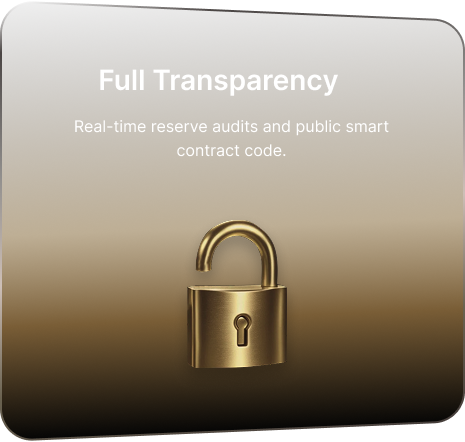
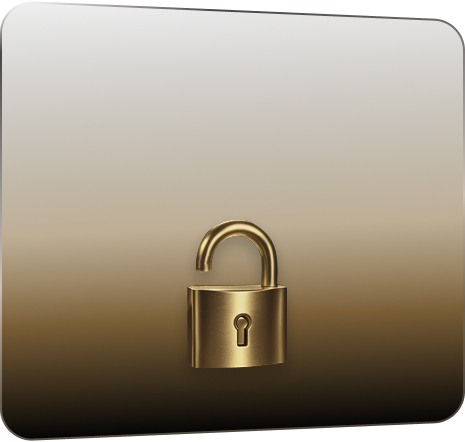
feat: style

Changed region(s): [[0.2108, 0.1471, 0.7226, 0.2353], [0.1505, 0.2647, 0.843, 0.2941], [0.3613, 0.3235, 0.6022, 0.3529]]

diff --git a/src/pages/home/works.tsx b/src/pages/home/works.tsx
@@ -167,18 +167,40 @@ export default function Works() {
         className="text-center text-base mt-[12px] leading-[25px] text-[#fff]"
       ></AnimatedContent>
       <div className=" mt-[80px] gap-[30px] flex items-end justify-center">
-        <img
-          src={work1}
-          className="block hover:scale-[1.05] transition-all w-[465px]"
-        />
-        <img
-          src={work2}
-          className="block hover:scale-[1.05] transition-all w-[500px]"
-        />
-        <img
-          src={work3}
-          className="block hover:scale-[1.05] transition-all w-[465px]"
-        />
+        <div className="w-[465px] hover:scale-[1.05] transition-all relative">
+          <img src={work1} className="block  w-full" />
+          <div className="absolute top-[62px] left-0 w-full h-full">
+            <div className="text-[28px] text-center text-white leading-[36px] font-bold">
+              Full Transparency
+            </div>
+            <div className="text-center text-[#fff] text-base leading-6 mt-4">
+              Real-time reserve audits and public smart <br /> contract code.
+            </div>
+          </div>
+        </div>
+        <div className="w-[500px] hover:scale-[1.05] transition-all relative">
+          <img src={work2} className="block  w-full" />
+          <div className="absolute top-[62px] left-0 w-full h-full">
+            <div className="text-[28px] text-center text-white leading-[36px] font-bold">
+              Community Governance
+            </div>
+            <div className="text-center text-[#fff] text-base leading-6 mt-4">
+              Token holders vote on protocol upgrades and <br /> parameter
+              adjustments.
+            </div>
+          </div>
+        </div>
+        <div className="w-[465px] hover:scale-[1.05] transition-all relative">
+          <img src={work3} className="block  w-full" />
+          <div className="absolute top-[62px] left-0 w-full h-full">
+            <div className="text-[28px] text-center text-white leading-[36px] font-bold">
+              Secure & Resilient
+            </div>
+            <div className="text-center text-[#fff] text-base leading-6 mt-4">
+              Multi-layer security architecture with <br /> regular audits.
+            </div>
+          </div>
+        </div>
       </div>
     </div>
   );

diff --git a/src/pages/history/index.tsx b/src/pages/history/index.tsx
@@ -192,7 +192,7 @@ export default function History() {
             </div>
 
             {/* Table Header */}
-            <div className="bg-[#22201A99] mb-[18px] px-[40px] h-[48px] leading-[48px] grid grid-cols-6 text-sm font-bold text-[#FFFFFF66]">
+            <div className="bg-[#22201A99] mb-[18px] px-[40px] h-[48px] leading-[48px] grid grid-cols-[1.5fr_1.5fr_1.5fr_1.5fr_1.5fr_1fr] text-sm font-bold text-[#FFFFFF66]">
               <div>Date</div>
               <div>Transaction Hash</div>
               <div>From</div>
@@ -206,7 +206,7 @@ export default function History() {
               {allTransactions.map((tx) => (
                 <div
                   key={tx.id}
-                  className="grid grid-cols-6 items-center hover:bg-[#22201A99] transition-all px-[40px] h-[56px] leading-[56px]"
+                  className="grid grid-cols-[1.5fr_1.5fr_1.5fr_1.5fr_1.5fr_1fr] items-center hover:bg-[#22201A99] transition-all px-[40px] h-[56px] leading-[56px]"
                 >
                   <div className="text-white text-sm">{tx.timestamp}</div>
                   <div className="flex items-center ">
